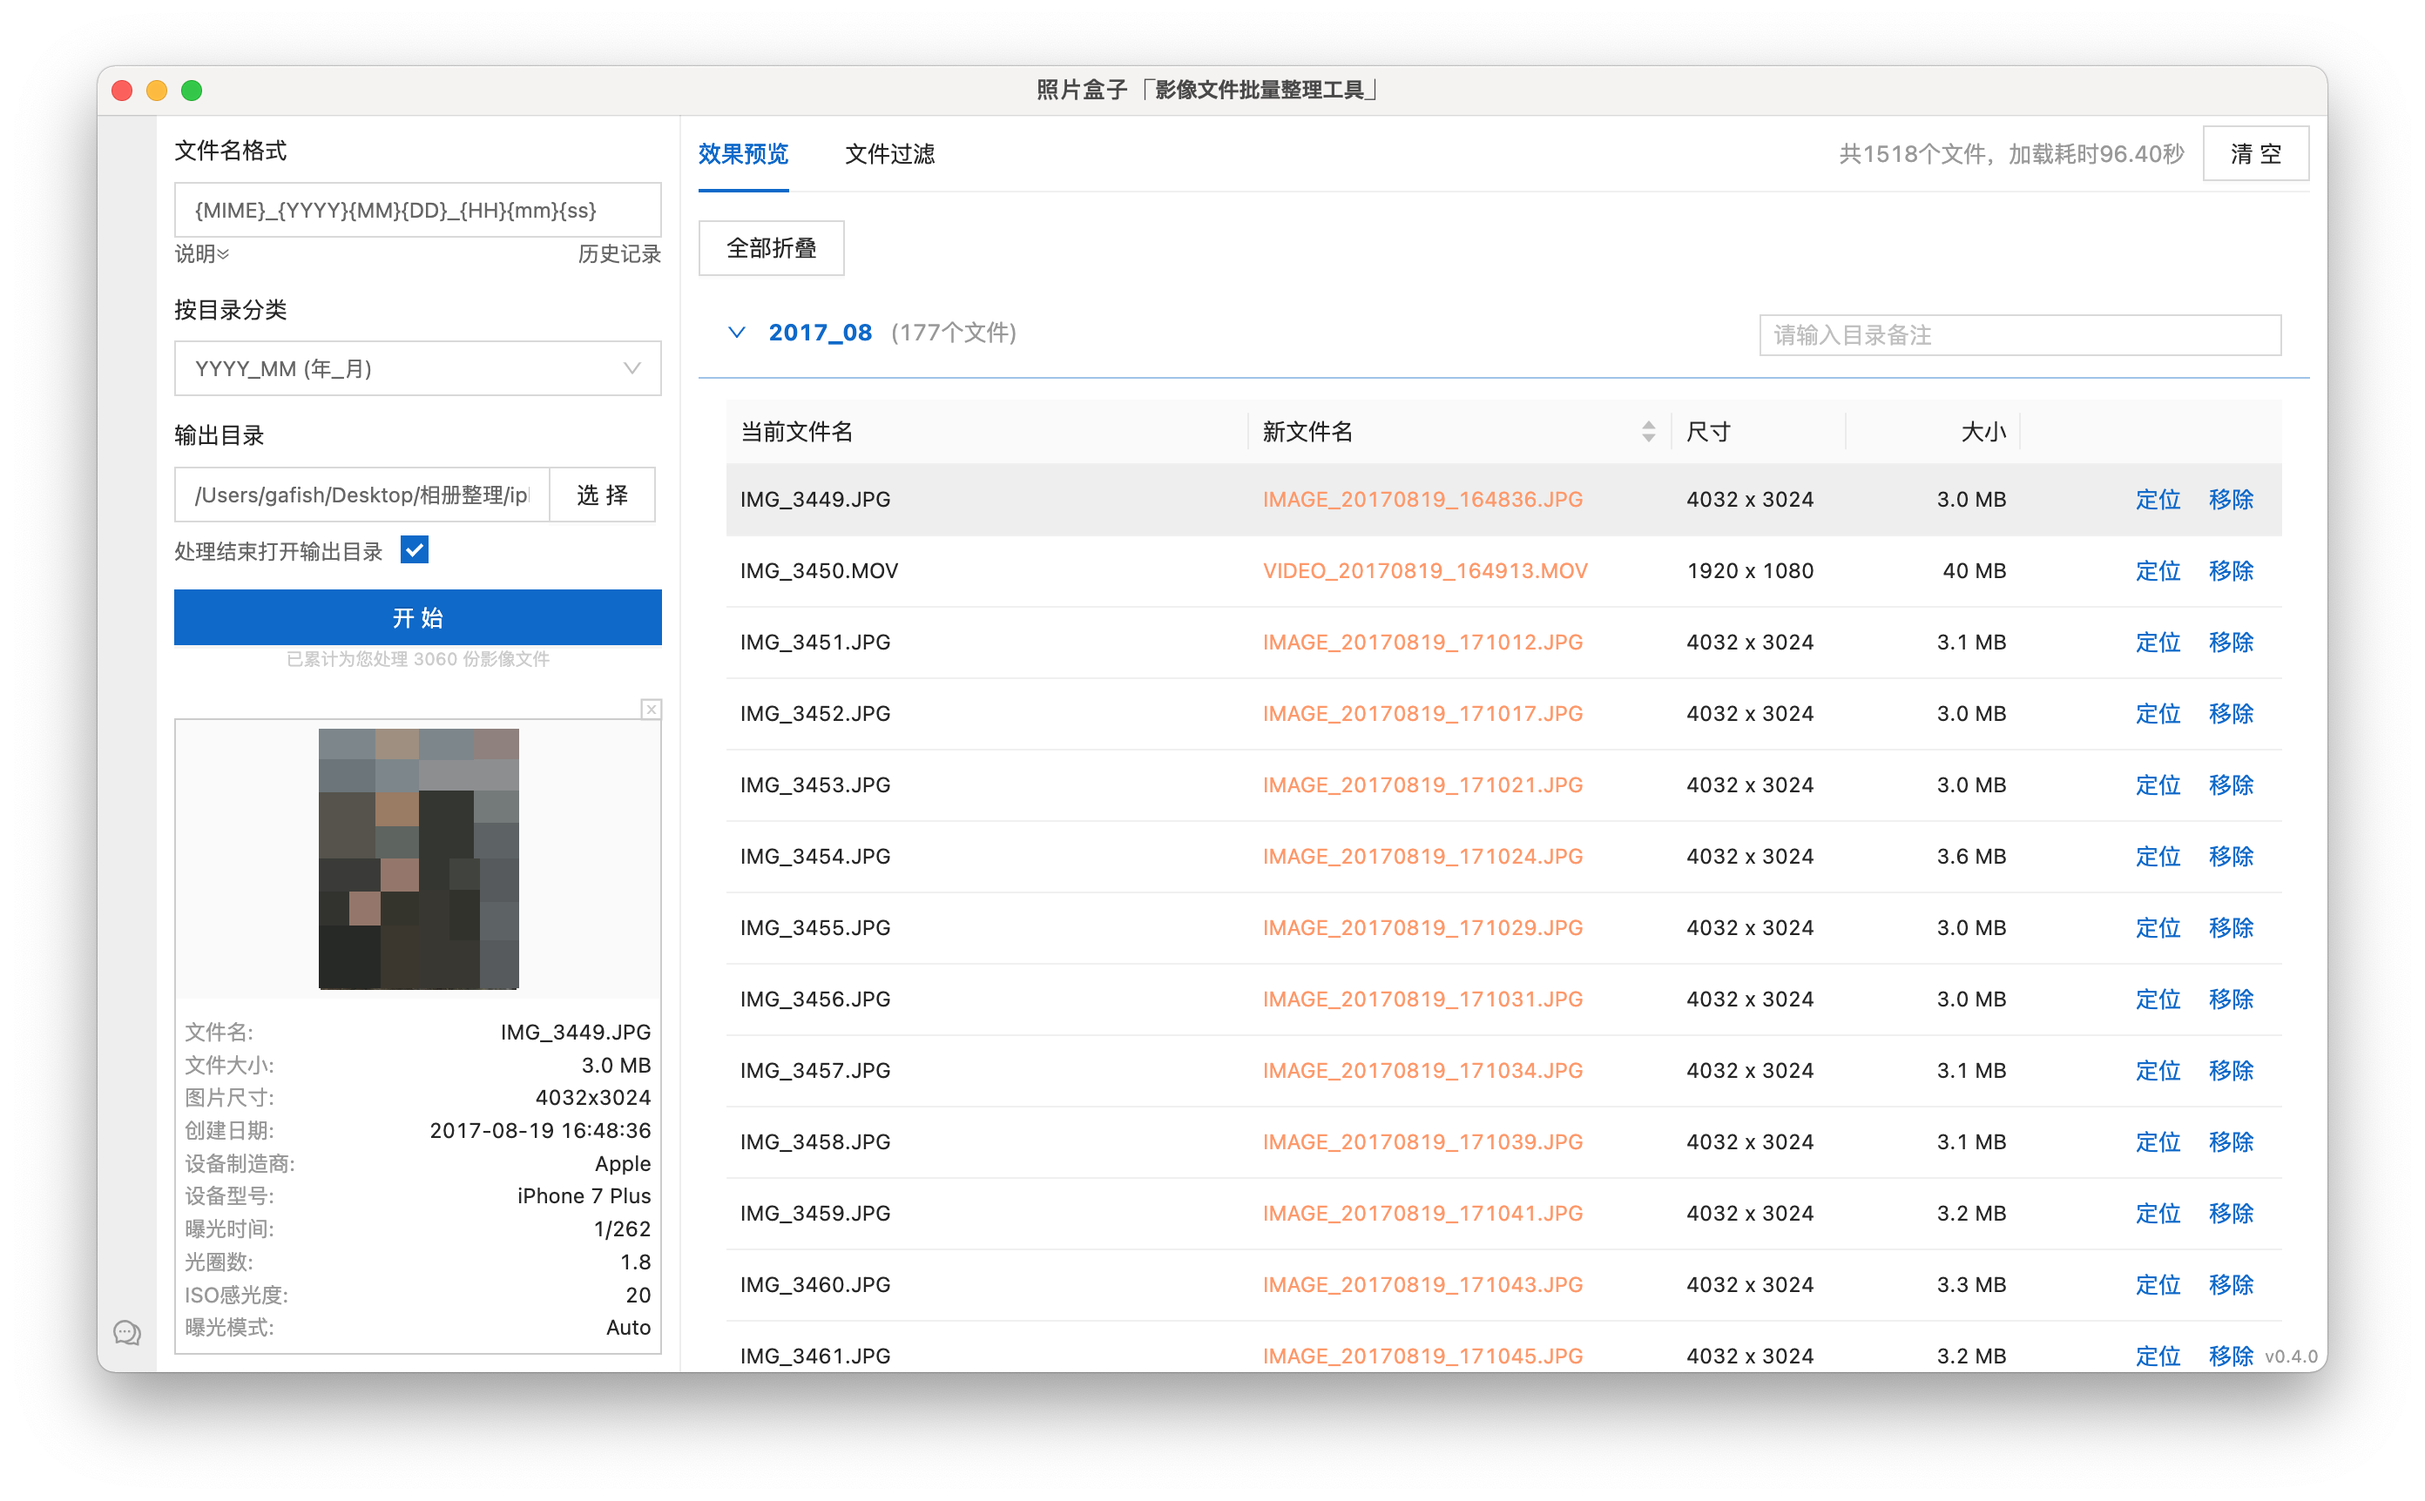
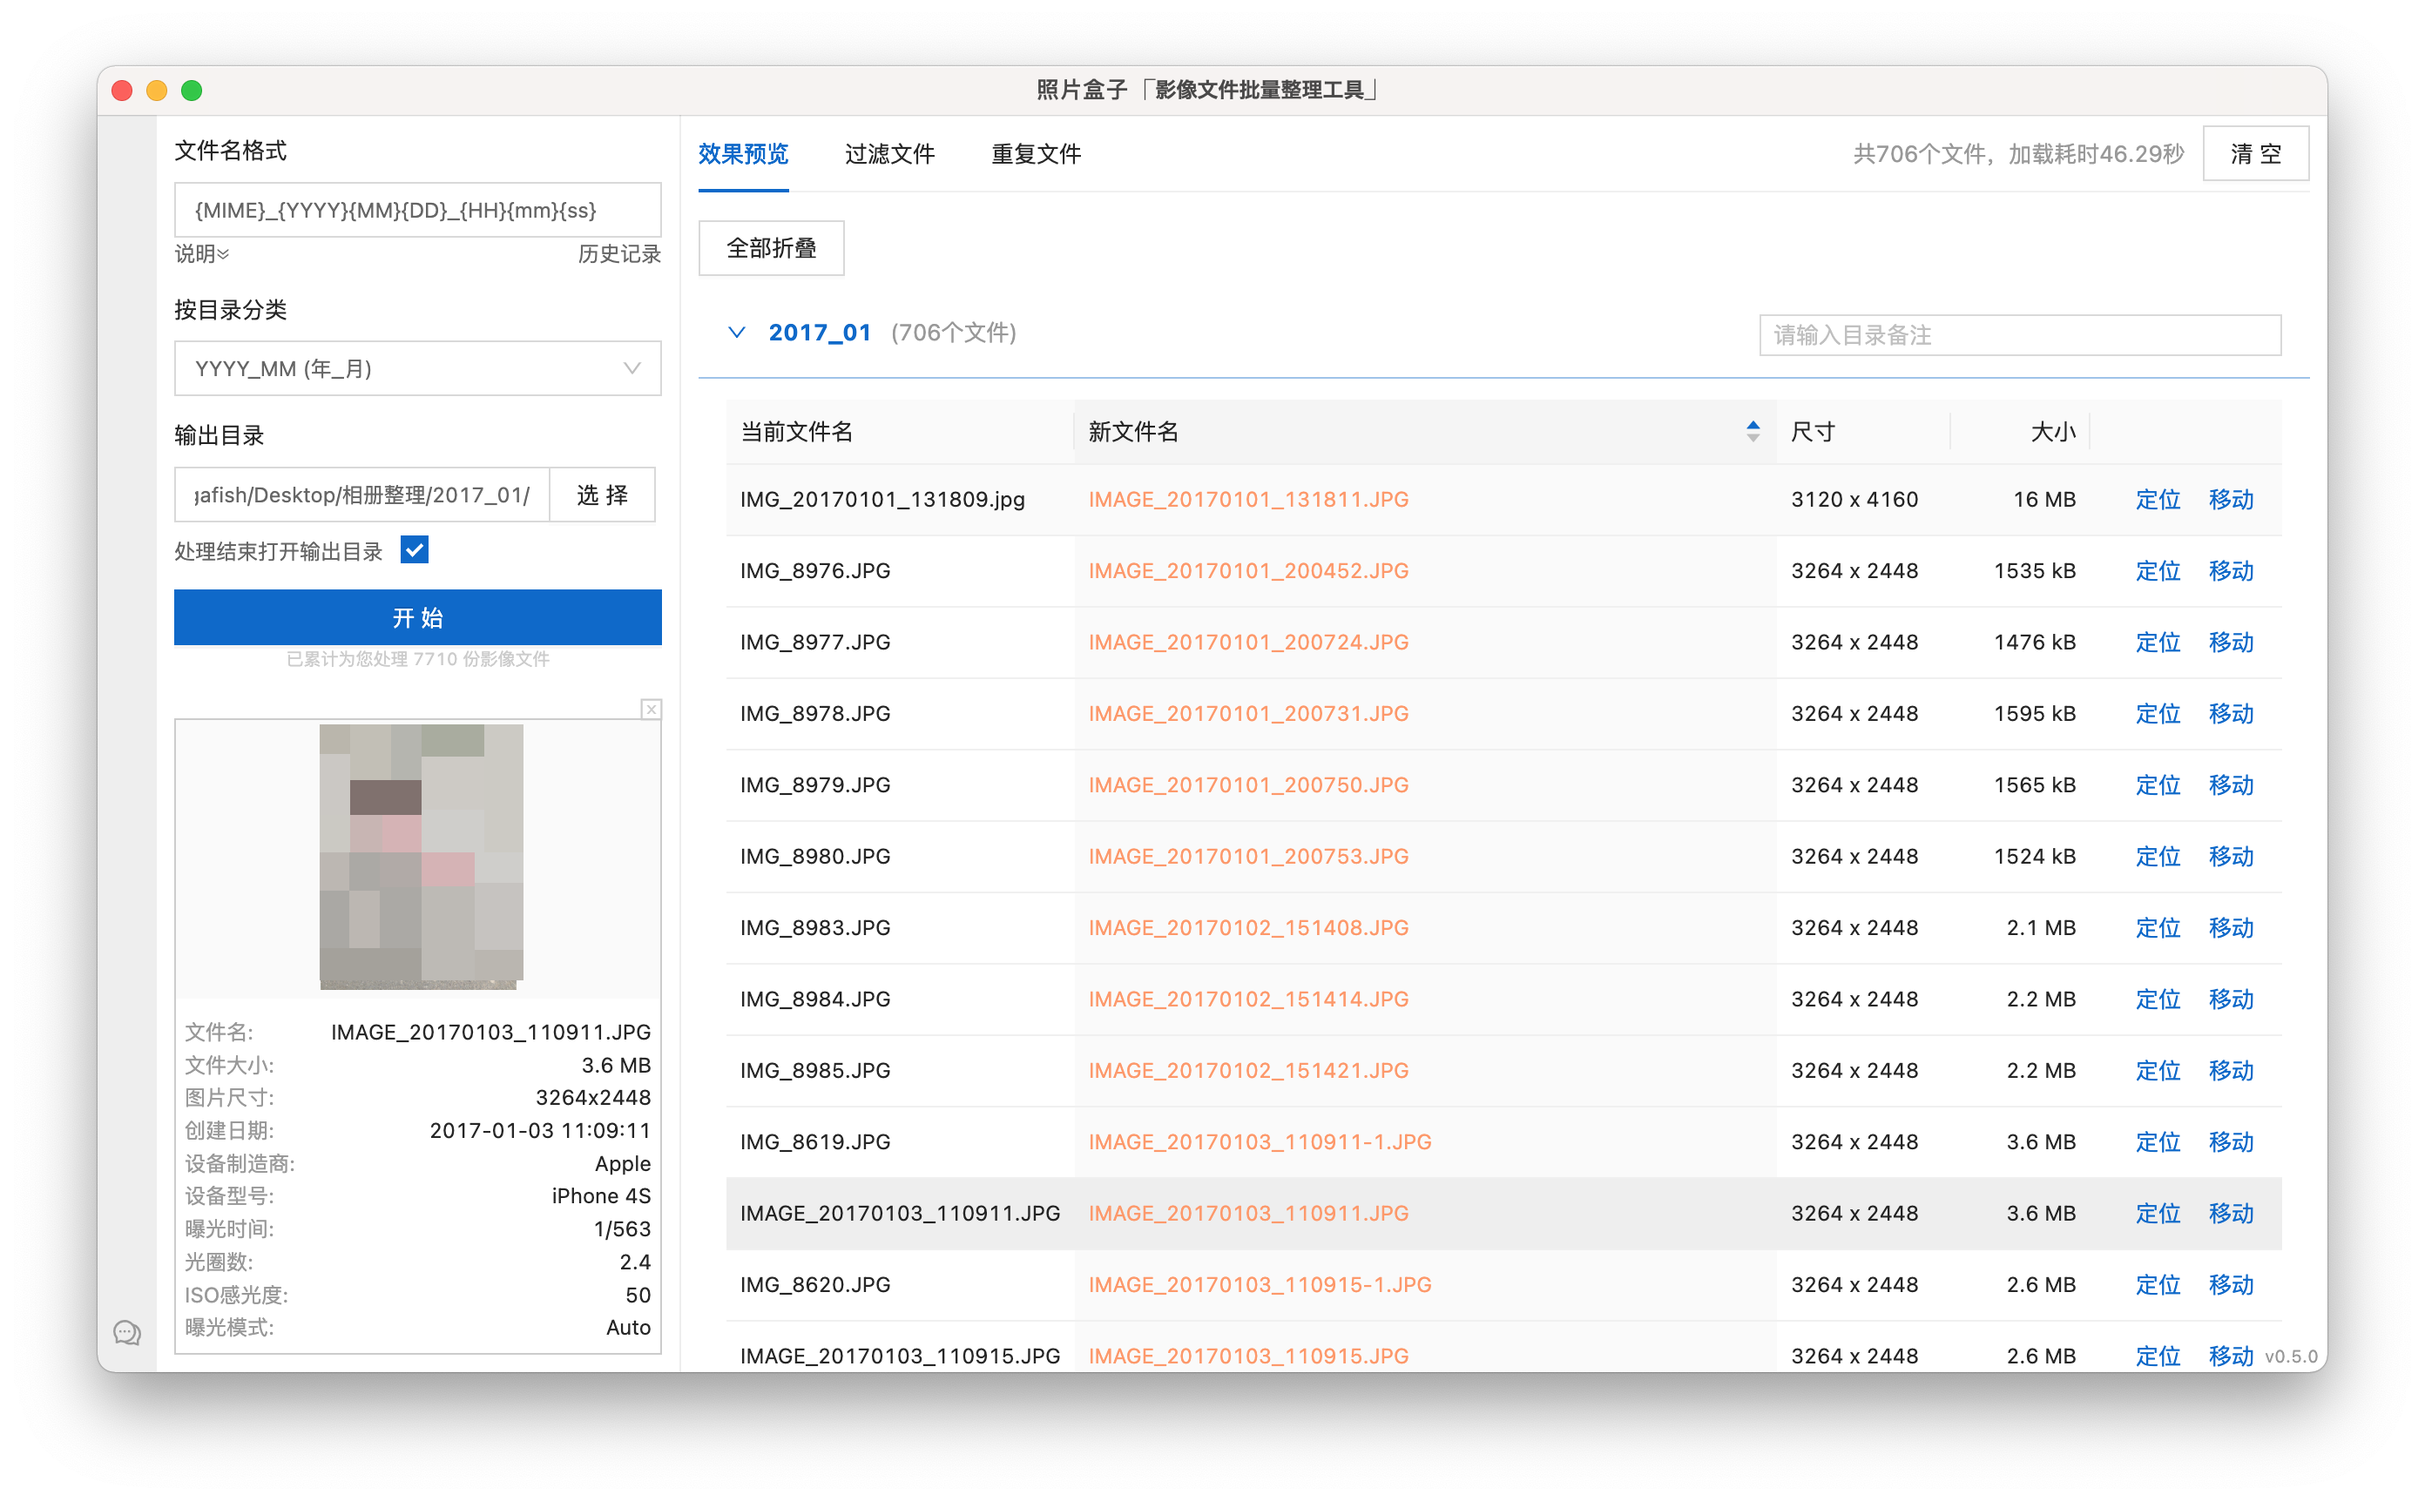
0.5.0

diff --git a/README.md b/README.md
@@ -1,6 +1,6 @@
 # 照片盒子
 
-当前版本：v0.4.0
+当前版本：v0.5.0
 
 一个用于批量整理照片的工具
 
@@ -10,7 +10,8 @@
 
 - 自定义文件名格式，批量重命名照片、视频
 - 按拍摄日期目录分类，目录支持备注
-- 文件按类型过滤
+- 过滤文件按类型
+- 查找重复文件
 - 查看基本的文件Exif信息
 - 图片、视频文件预览
 
@@ -23,13 +24,24 @@
 查看照片详情及预览，支持按日期目录分类
 ![](./screenshot/2.png)
 
-文件过滤
+过滤文件
 ![](./screenshot/3.png)
 
-重命名后的文件列表
+重复文件
 ![](./screenshot/4.png)
 
+重命名后的文件列表
+![](./screenshot/5.png)
+
 ## 更新记录
+
+### 0.5.0
+- [新增] 查找重复文件
+- [新增] 增加格式化处理字段：设备、型号
+- [新增] 增加疑似手机照片尺寸
+- [优化] 移出列表改为移动到临时目录
+- [优化] 预览目录排序
+- [bugfix] 修复第一次打开列表不展开的问题
 
 ### 0.4.0
 - [新增] 支持RAW, DNG 和TIF 格式的照片
